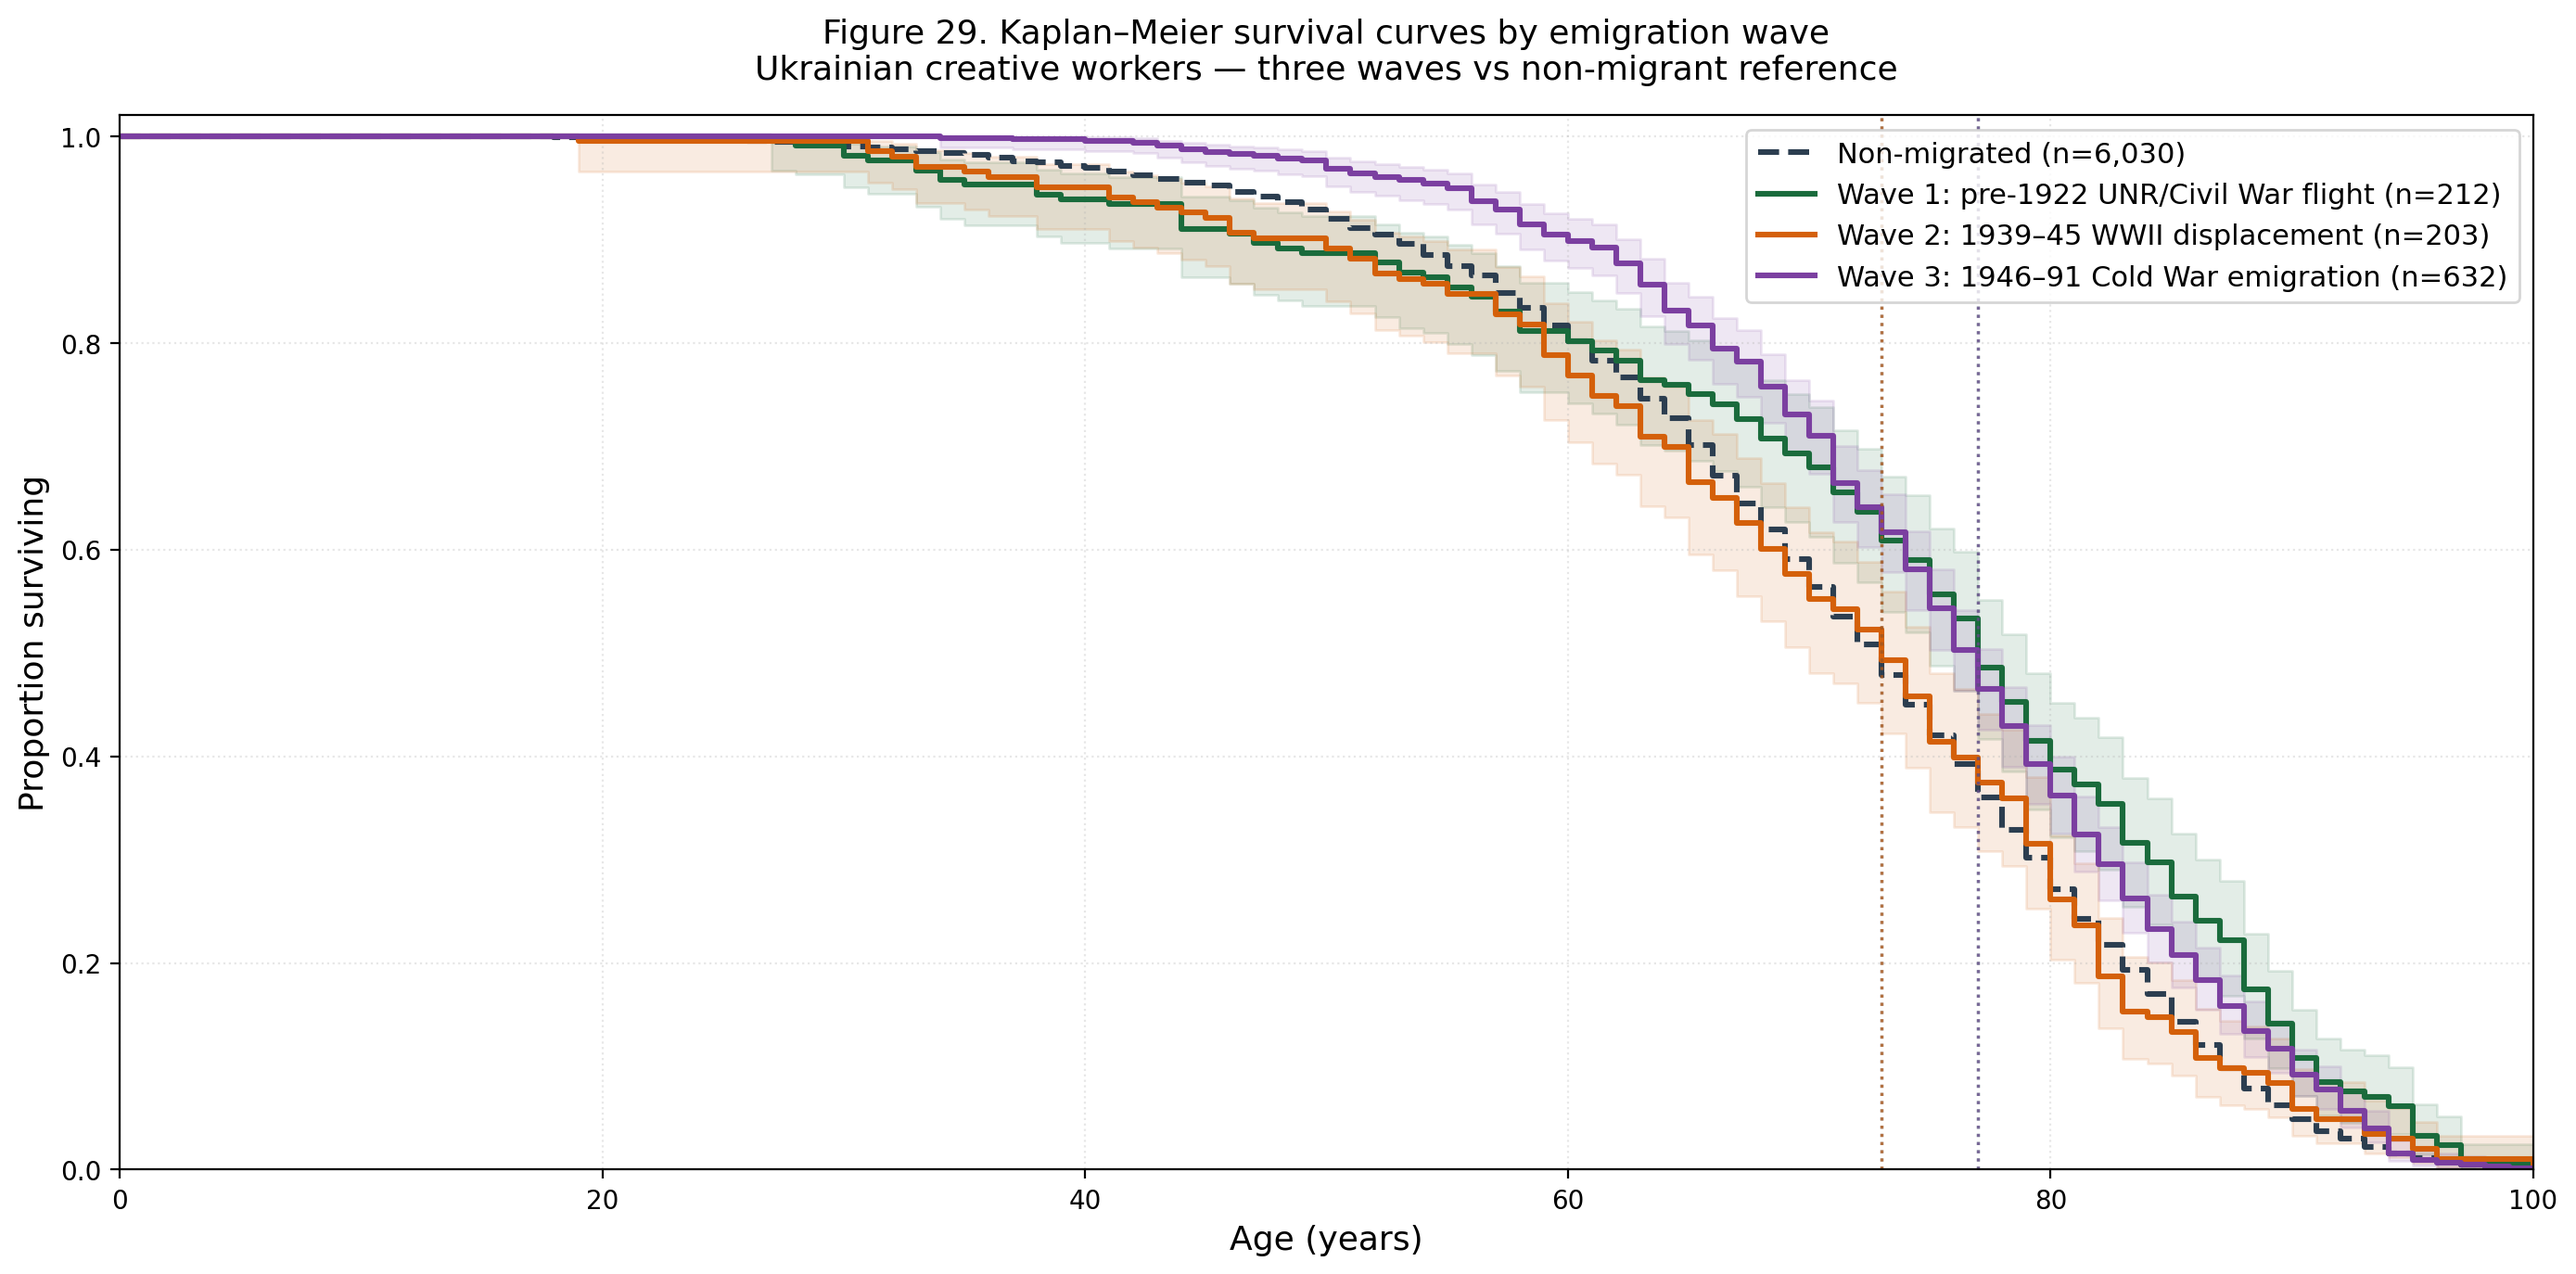
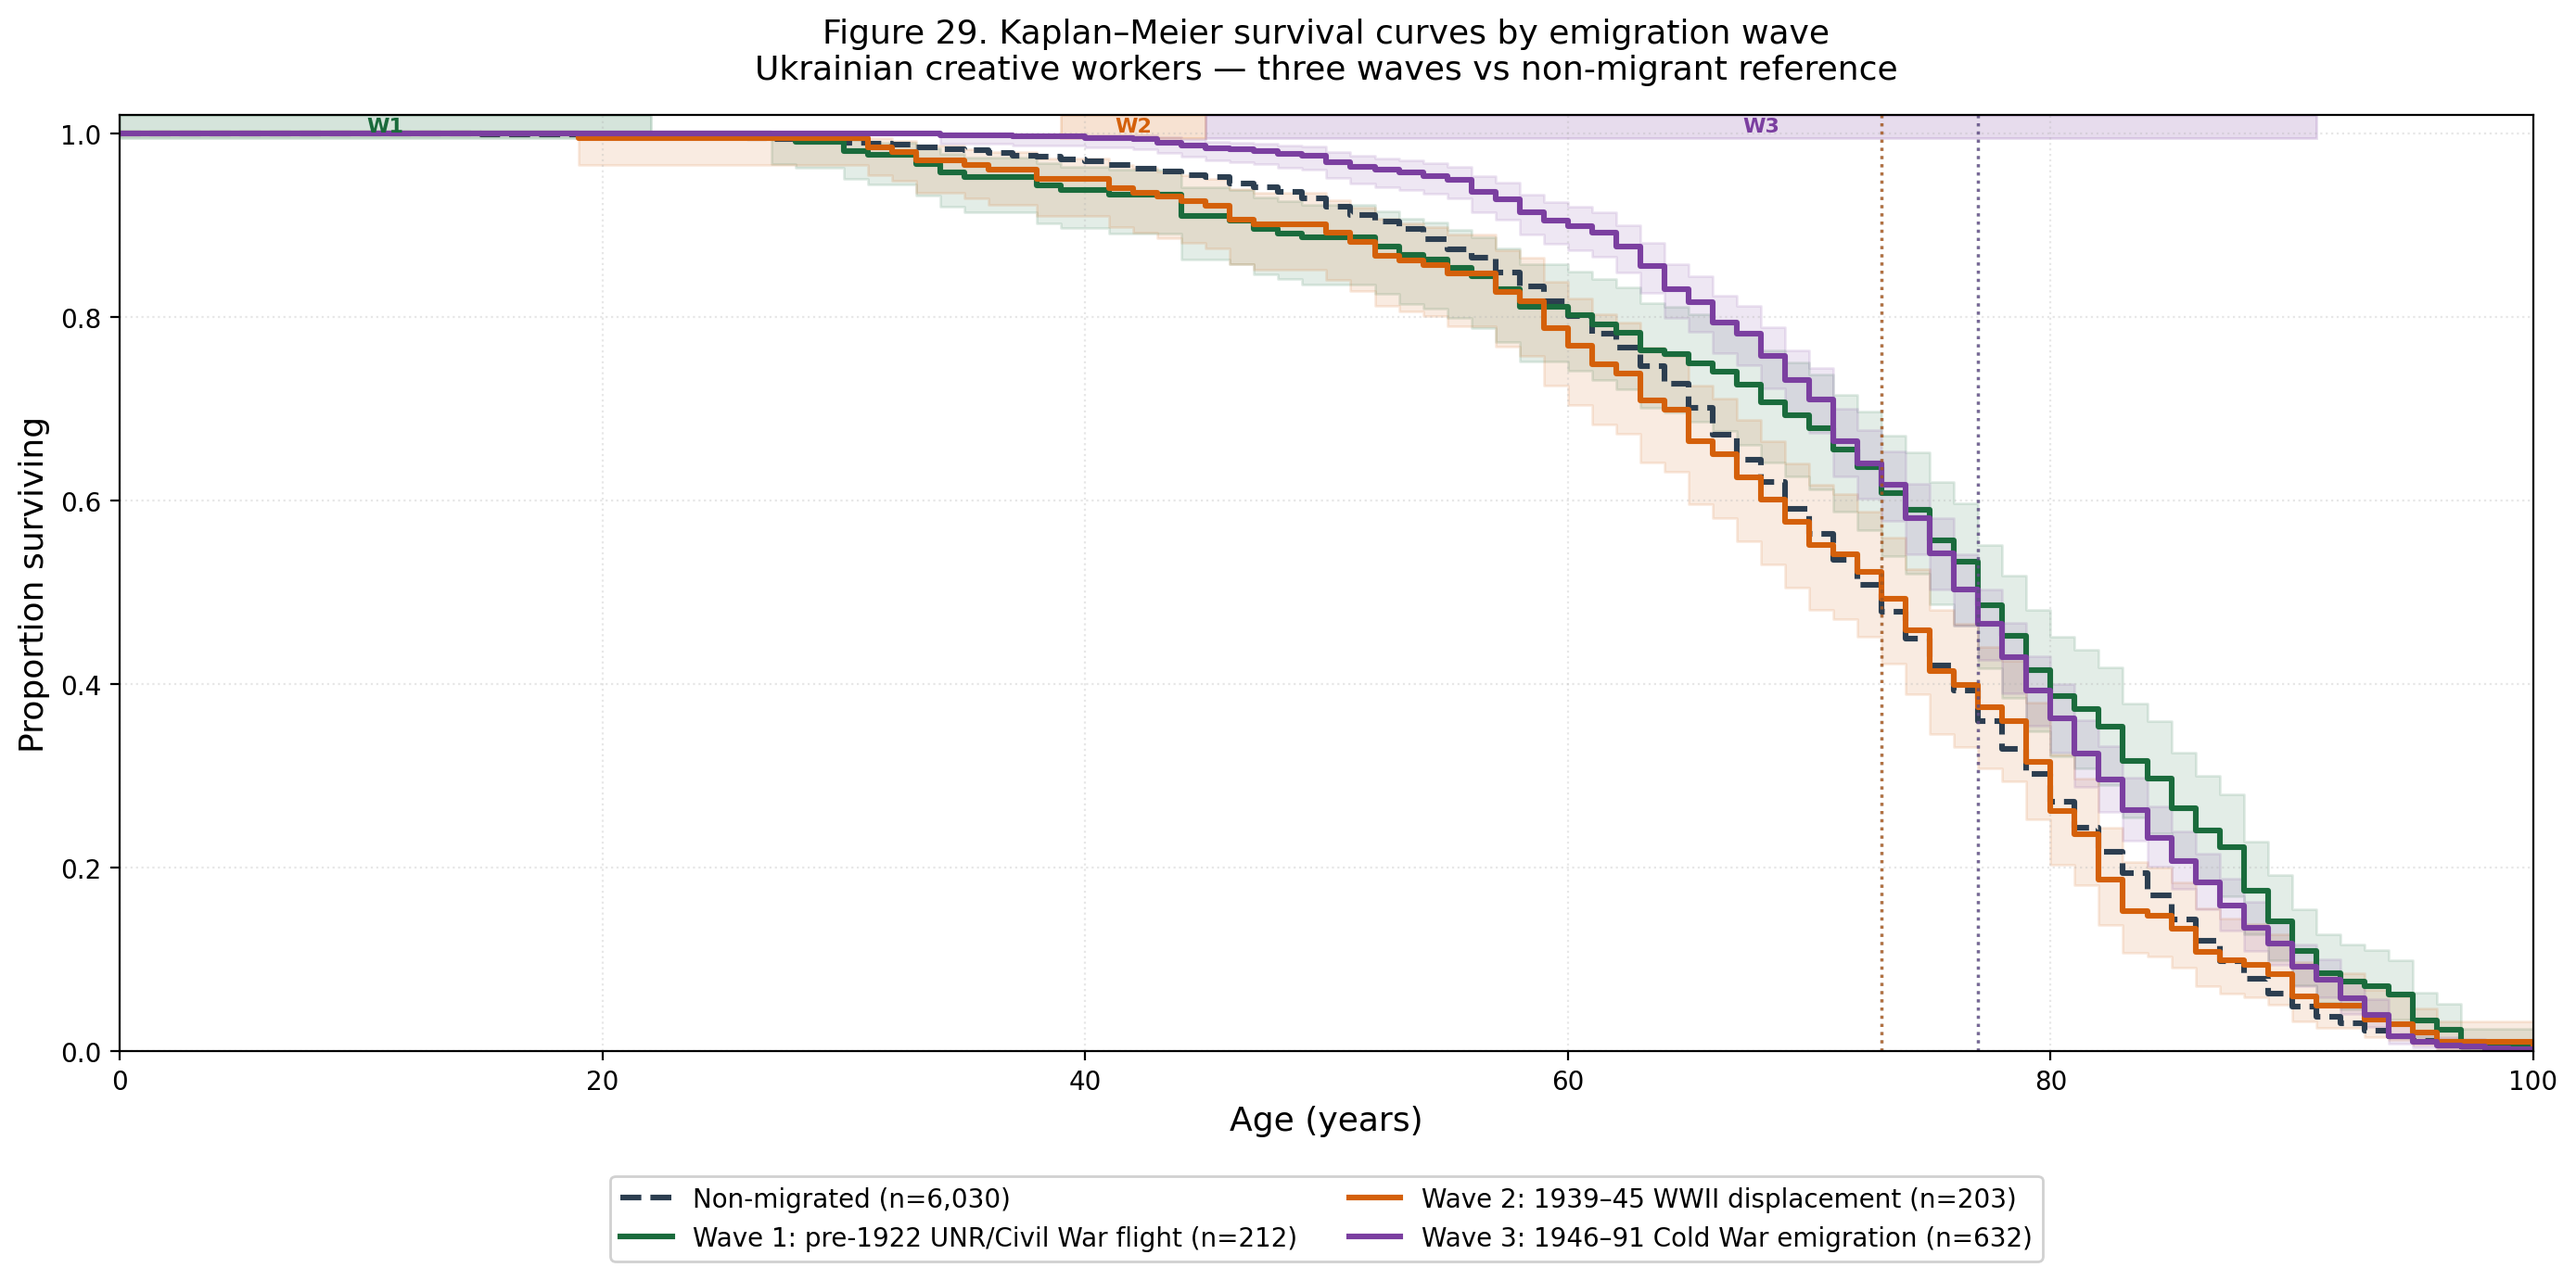
Fix fig29: legend below plot, wave-period highlight bands
- Legend moved outside plot area (bottom, 2-column layout)
- Coloured wave-period bars at top of chart (W1/W2/W3 labelled)
- Wave 2 line now dotted to distinguish from Wave 3
- Hover tooltips include emigration period for each wave

diff --git a/docs/index.html b/docs/index.html
@@ -512,7 +512,7 @@
 </table>
 <p><strong>Figure 29.</strong> Kaplan–Meier survival curves by emigration wave and non-migrant reference. Wave 3 workers — who lived under Soviet conditions longest before emigrating — show the clearest survival advantage. Wave 2 workers who endured WWII displacement and DP camps show near-identical survival to non-migrants.</p>
 <figure class="interactive-fig"><div>                        <script>window.PlotlyConfig = {MathJaxConfig: 'local'};</script>
[2 lines of base64/hex data omitted]
 <p>The wave-level pattern is structurally important for interpreting the self-selection critique. Wave 1 emigrants — the sub-group most selected for pre-existing privilege — show a <em>smaller</em> gap (+2.41 years) than Wave 3 emigrants (+4.44 years). Wave 2, who experienced the most severe emigration hardship (displacement, DP camps, malnutrition, resettlement uncertainty), shows essentially no gap (−0.88 years, p=0.63). The adjusted OLS model (controlling for birth decade and profession) replicates this pattern: Wave 3 shows a significant adjusted coefficient of +4.54 years (p<0.001); Waves 1 and 2 are not significantly different from non-migrants after adjustment.</p>
 <p>This cross-wave pattern is inconsistent with a simple positive-selection story. If the gap were explained primarily by pre-migration advantages (health, social capital, wealth), we would expect the most privileged sub-group — Wave 1 — to show the <em>largest</em> gap. Instead, the largest gap belongs to Wave 3: workers who spent their productive careers under Soviet conditions and only managed to leave in the post-war Cold War period, often at great personal and political cost. The selection mechanisms for each wave are historically incommensurable — early elite flight, WWII chaos, Cold War defection — yet only the wave with the longest Soviet exposure shows the substantial mortality advantage. This pattern argues against a unified unobserved confound driving the result.</p>
 <p>Wave classification relies on period-of-departure keywords and year mentions in English biographical reasoning text. Approximately 5.0% of migrants (n=66) could not be assigned to a wave and are retained in the aggregate migrant group but excluded from wave-level breakdowns. Wave 4 emigrants (post-1992, n=172) are excluded from the gap calculation entirely as they did not leave the Soviet sphere.</p>

diff --git a/ukraine_v2/paper_preview.html b/ukraine_v2/paper_preview.html
@@ -512,7 +512,7 @@
 </table>
 <p><strong>Figure 29.</strong> Kaplan–Meier survival curves by emigration wave and non-migrant reference. Wave 3 workers — who lived under Soviet conditions longest before emigrating — show the clearest survival advantage. Wave 2 workers who endured WWII displacement and DP camps show near-identical survival to non-migrants.</p>
 <figure class="interactive-fig"><div>                        <script>window.PlotlyConfig = {MathJaxConfig: 'local'};</script>
[2 lines of base64/hex data omitted]
 <p>The wave-level pattern is structurally important for interpreting the self-selection critique. Wave 1 emigrants — the sub-group most selected for pre-existing privilege — show a <em>smaller</em> gap (+2.41 years) than Wave 3 emigrants (+4.44 years). Wave 2, who experienced the most severe emigration hardship (displacement, DP camps, malnutrition, resettlement uncertainty), shows essentially no gap (−0.88 years, p=0.63). The adjusted OLS model (controlling for birth decade and profession) replicates this pattern: Wave 3 shows a significant adjusted coefficient of +4.54 years (p<0.001); Waves 1 and 2 are not significantly different from non-migrants after adjustment.</p>
 <p>This cross-wave pattern is inconsistent with a simple positive-selection story. If the gap were explained primarily by pre-migration advantages (health, social capital, wealth), we would expect the most privileged sub-group — Wave 1 — to show the <em>largest</em> gap. Instead, the largest gap belongs to Wave 3: workers who spent their productive careers under Soviet conditions and only managed to leave in the post-war Cold War period, often at great personal and political cost. The selection mechanisms for each wave are historically incommensurable — early elite flight, WWII chaos, Cold War defection — yet only the wave with the longest Soviet exposure shows the substantial mortality advantage. This pattern argues against a unified unobserved confound driving the result.</p>
 <p>Wave classification relies on period-of-departure keywords and year mentions in English biographical reasoning text. Approximately 5.0% of migrants (n=66) could not be assigned to a wave and are retained in the aggregate migrant group but excluded from wave-level breakdowns. Wave 4 emigrants (post-1992, n=172) are excluded from the gap calculation entirely as they did not leave the Soviet sphere.</p>

diff --git a/ukraine_v2/charts/fig29_interactive.html b/ukraine_v2/charts/fig29_interactive.html
@@ -1,2 +1,2 @@
 <div>                        <script>window.PlotlyConfig = {MathJaxConfig: 'local'};</script>
[2 lines of base64/hex data omitted]

diff --git a/ukraine_v2/stage9_wave_disaggregation.py b/ukraine_v2/stage9_wave_disaggregation.py
@@ -357,9 +357,26 @@ try:
             n_wave = len(ages)
         ax.axvline(med, color=color, linestyle=':', linewidth=1.2, alpha=0.6)
 
-    ax.legend(fontsize=11, loc='upper right')
+    # Wave period highlight bands (along top edge of plot)
+    ax.axhspan(0.995, 1.02, xmin=0/100, xmax=22/100,
+               color=WAVE_COLORS['WAVE1'], alpha=0.18, zorder=0)
+    ax.axhspan(0.995, 1.02, xmin=39/100, xmax=45/100,
+               color=WAVE_COLORS['WAVE2'], alpha=0.18, zorder=0)
+    ax.axhspan(0.995, 1.02, xmin=45/100, xmax=91/100,
+               color=WAVE_COLORS['WAVE3'], alpha=0.18, zorder=0)
+    ax.text(11, 1.008, 'W1', ha='center', va='center', fontsize=8,
+            color=WAVE_COLORS['WAVE1'], fontweight='bold')
+    ax.text(42, 1.008, 'W2', ha='center', va='center', fontsize=8,
+            color=WAVE_COLORS['WAVE2'], fontweight='bold')
+    ax.text(68, 1.008, 'W3', ha='center', va='center', fontsize=8,
+            color=WAVE_COLORS['WAVE3'], fontweight='bold')
+
+    # Legend below the plot
+    ax.legend(fontsize=10, loc='upper center', bbox_to_anchor=(0.5, -0.12),
+              ncol=2, frameon=True, framealpha=0.9)
 
     plt.tight_layout()
+    plt.subplots_adjust(bottom=0.18)
     out_png = os.path.join(CHARTS, 'fig29_wave_km.png')
     fig.savefig(out_png, dpi=200, bbox_inches='tight')
     plt.close(fig)
@@ -371,6 +388,16 @@ try:
 
         fig_p = go.Figure()
 
+        # Wave period highlight bands (vertical shading on age axis)
+        # These represent the birth-cohort ages during each emigration window,
+        # approximated as: W1 emigrants born ~1870-1900 (age 17-52 in 1917-22),
+        # shown as a top-edge colour bar via shape annotations.
+        wave_bands = [
+            dict(type='rect', xref='paper', yref='y',
+                 x0=0, x1=1, y0=1.01, y1=1.03,
+                 fillcolor='rgba(0,0,0,0)', line_width=0),
+        ]
+
         # Non-migrant
         kmf_nm2 = KaplanMeierFitter()
         kmf_nm2.fit(nm_ages.values)
@@ -381,6 +408,13 @@ try:
             mode='lines', name=WAVE_LABELS['NON_MIG'],
             line=dict(color=WAVE_COLORS['NON_MIG'], width=2.5, dash='dash'),
         ))
+
+        WAVE_DASH = {'WAVE1': 'solid', 'WAVE2': 'dot', 'WAVE3': 'solid'}
+        WAVE_PERIOD = {
+            'WAVE1': 'Emigration period: before 1922',
+            'WAVE2': 'Emigration period: 1939–1945',
+            'WAVE3': 'Emigration period: 1946–1991',
+        }
 
         for wave in ['WAVE1', 'WAVE2', 'WAVE3']:
             wdf = wave_df[wave_df['wave'] == wave]
@@ -395,24 +429,67 @@ try:
             lo = ci.iloc[:, 0].values
             hi = ci.iloc[:, 1].values
             label = WAVE_LABELS[wave] + f' (n={len(ages):,})'
+            # CI band
             fig_p.add_trace(go.Scatter(
                 x=np.concatenate([t_w, t_w[::-1]]),
                 y=np.concatenate([hi, lo[::-1]]),
                 fill='toself', fillcolor=WAVE_COLORS[wave],
-                opacity=0.12, line=dict(color='rgba(0,0,0,0)'),
+                opacity=0.15, line=dict(color='rgba(0,0,0,0)'),
                 hoverinfo='skip', showlegend=False,
             ))
+            # Main line
             fig_p.add_trace(go.Scatter(
-                x=t_w, y=s_w, mode='lines', name=label,
-                line=dict(color=WAVE_COLORS[wave], width=2.5),
+                x=t_w, y=s_w, mode='lines',
+                name=f'<b>{label}</b><br><i style="font-size:10px">{WAVE_PERIOD[wave]}</i>',
+                line=dict(color=WAVE_COLORS[wave], width=3,
+                          dash=WAVE_DASH[wave]),
+                hovertemplate=(
+                    f'<b>{label}</b><br>'
+                    'Age: %{x:.0f} yrs<br>'
+                    'Surviving: %{y:.3f}<br>'
+                    f'{WAVE_PERIOD[wave]}<extra></extra>'
+                ),
             ))
 
+        # Coloured wave-period annotation bar at top of plot
+        for wave, x0, x1, label_x, label_txt in [
+            ('WAVE1',  0,  22, 11,  'Wave 1\n<1922'),
+            ('WAVE2', 39,  45, 42,  'Wave 2\n1939–45'),
+            ('WAVE3', 45,  91, 68,  'Wave 3\n1946–91'),
+        ]:
+            fig_p.add_shape(type='rect',
+                x0=x0, x1=x1, y0=1.015, y1=1.035,
+                xref='x', yref='y',
+                fillcolor=WAVE_COLORS[wave], opacity=0.25,
+                line_width=0)
+            fig_p.add_annotation(
+                x=label_x, y=1.025, xref='x', yref='y',
+                text=label_txt, showarrow=False,
+                font=dict(size=9, color=WAVE_COLORS[wave]),
+                align='center',
+            )
+
         fig_p.update_layout(
-            title='Figure 29. KM Survival Curves by Emigration Wave',
-            xaxis_title='Age (years)', yaxis_title='Proportion surviving',
-            xaxis=dict(range=[0, 100]), yaxis=dict(range=[0, 1.02]),
-            legend=dict(x=0.98, y=0.98, xanchor='right', yanchor='top'),
-            template='plotly_white', height=520,
+            title=dict(
+                text='Figure 29. KM Survival Curves by Emigration Wave',
+                font=dict(size=14),
+            ),
+            xaxis_title='Age (years)',
+            yaxis_title='Proportion surviving',
+            xaxis=dict(range=[0, 100]),
+            yaxis=dict(range=[0, 1.04]),
+            # Legend at bottom, outside plot
+            legend=dict(
+                orientation='h',
+                yanchor='top', y=-0.18,
+                xanchor='center', x=0.5,
+                font=dict(size=11),
+                bgcolor='rgba(255,255,255,0.9)',
+                bordercolor='#ccc', borderwidth=1,
+            ),
+            template='plotly_white',
+            height=580,
+            margin=dict(b=140),
         )
 
         out_html = os.path.join(CHARTS, 'fig29_interactive.html')
